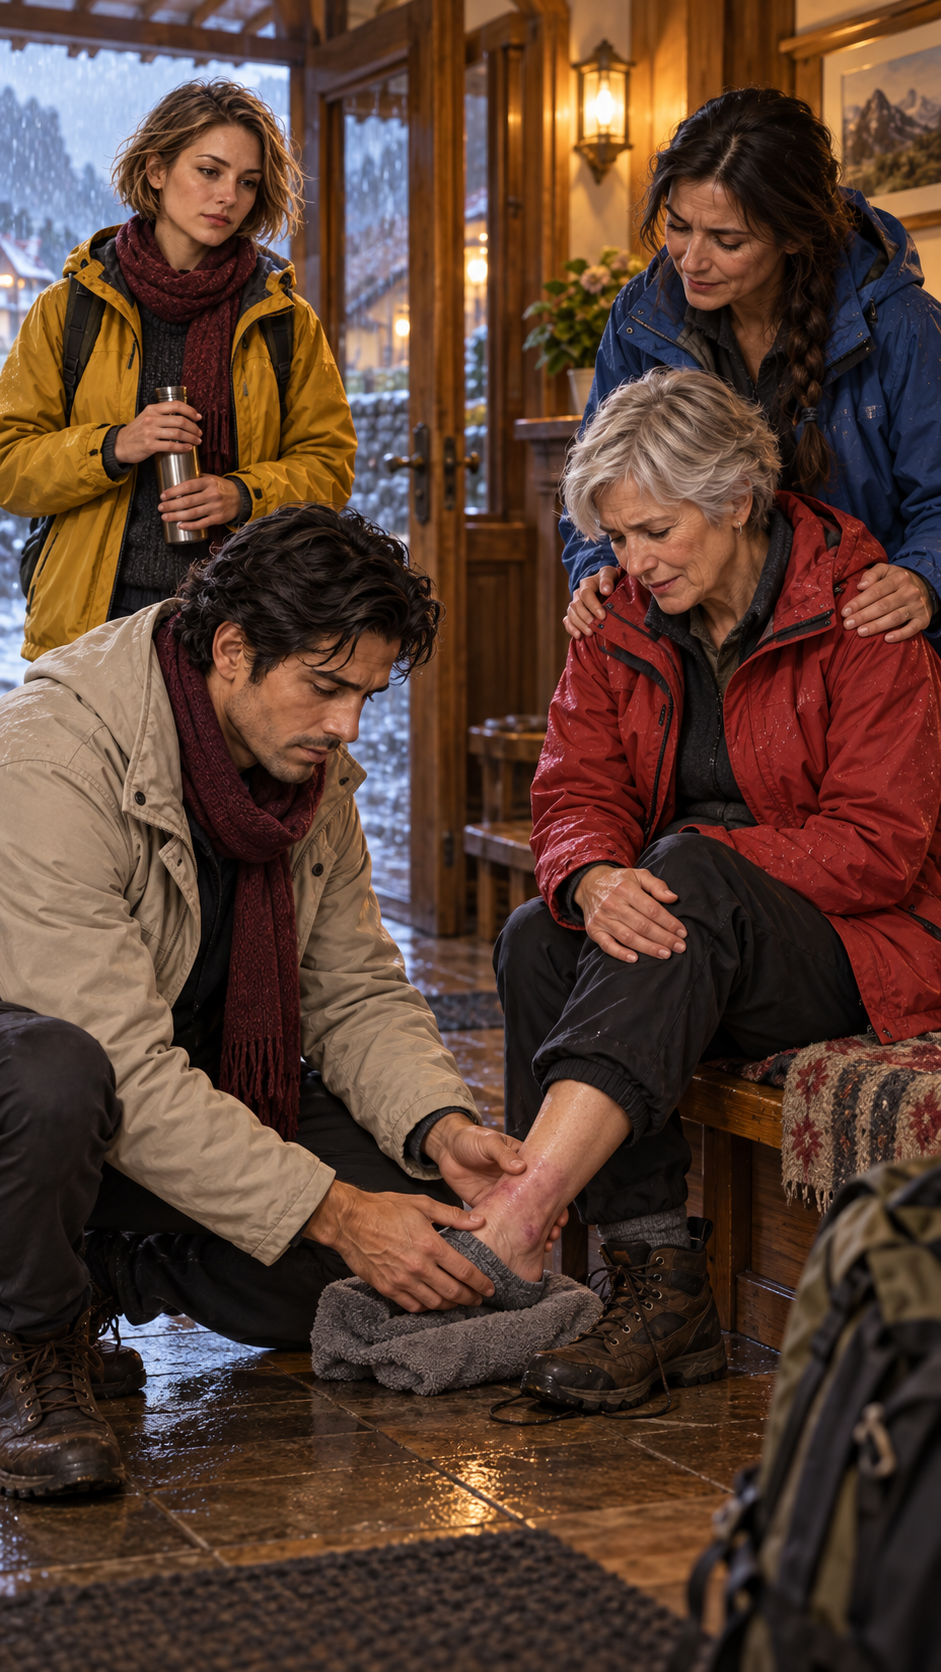
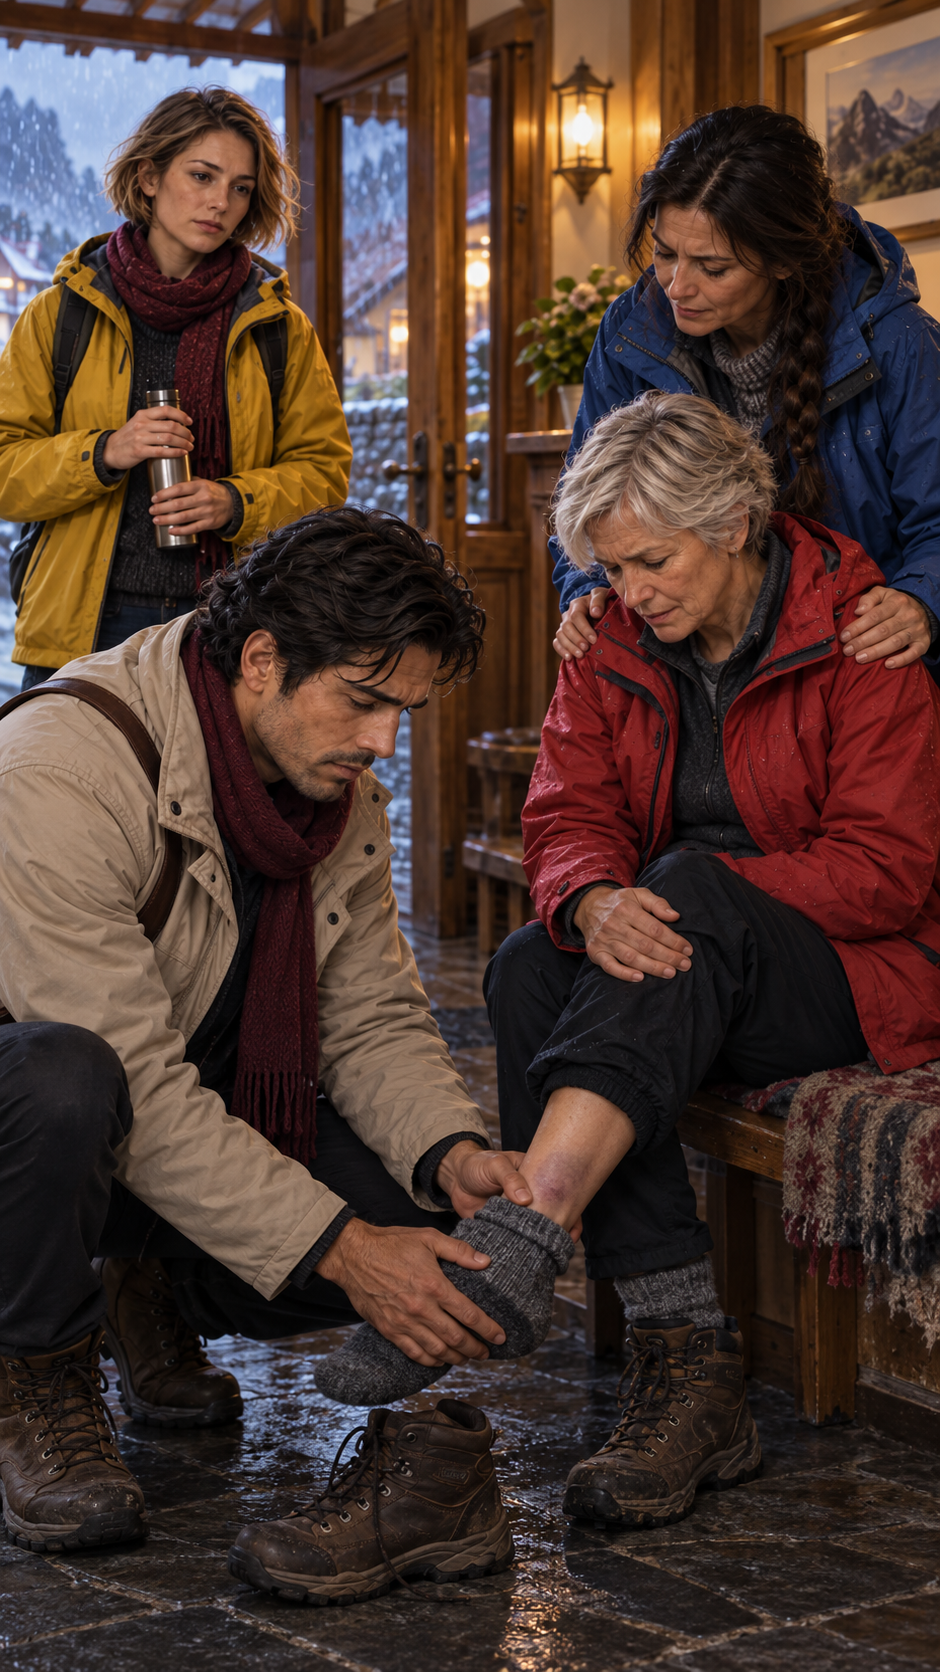
Accept S16 portrait runtime composition

diff --git a/src/literary.css b/src/literary.css
@@ -114,6 +114,10 @@ button:disabled{opacity:.43;cursor:not-allowed}
 @media(max-width:680px) and (orientation:portrait){
   .literary-picture.is-cg::before{display:none!important}
   .literary-picture.is-cg>img{inset:0!important;width:100%!important;height:100%!important;max-width:none!important;max-height:none!important;object-fit:contain!important;object-position:center center!important}
+  /* S16 medical-help keeps the ankle intervention above the readable sheet. */
+  .literary-picture.is-cg:has(>img[data-asset="s16-guesthouse-help-portrait.png"])>img{
+    height:76%!important;object-fit:cover!important;object-position:center top!important
+  }
 }
 
 /* Unified fullscreen presentation contract. Every runtime mode owns the

diff --git a/docs/VISUAL_ACCEPTANCE_S13_S16_2026-09-24.md b/docs/VISUAL_ACCEPTANCE_S13_S16_2026-09-24.md
@@ -45,6 +45,19 @@ The ledger was recalculated against all 66 rows: `MISSING_APPROPRIATE_ART=42`, `
 
 ## Verification
 
+## Latest portrait recheck — 2026-09-24
+
+The updated `assets/cg/s16-guesthouse-help-portrait.png` was inspected as a new 941×1672 asset and its provenance hash matches `assets/provenance/rights-manifest.json`. The targeted composition places the injured ankle and Damir's hands materially higher than the previous portrait.
+
+The first in-app browser attempt was blocked by `Emulation.setFocusEmulationEnabled`, but the independent Playwright CLI path with the project preview server and native Chromium completed the required check. Fresh screenshots:
+
+- `output/playwright/s16-guesthouse-help-portrait-390x844.png`
+- `output/playwright/s16-guesthouse-help-portrait-360x640.png`
+
+DOM/runtime readback confirmed `S16` from the live header, visual beat `s16-guesthouse-help`, portrait asset `s16-guesthouse-help-portrait.png`, `mode: cinematic`, `stageCount: 0`, natural size `940×1672`, no document/body horizontal overflow, and enabled `К выбору` / `Далее` controls. With the lower text sheet open, both fresh screenshots visibly retain the injured ankle and Damir's hands above the sheet. A scoped mobile presentation rule was required; no image was regenerated.
+
+Final S16 portrait acceptance: **PASS / VISUAL_ACCEPTANCE: PASS**.
+
 - `npm run literary:compile` — `LITERARY_COMPILE_OK 66 scenes 619 chunks`
 - `npm run test:narrative` — PASS
 - `git diff --check` — PASS
